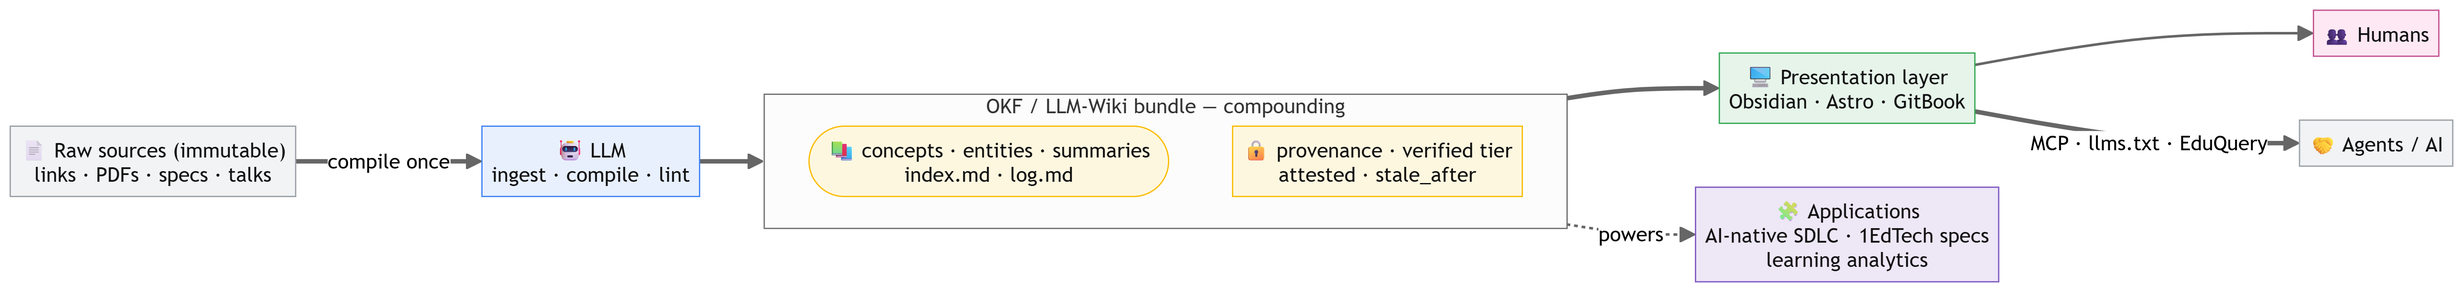
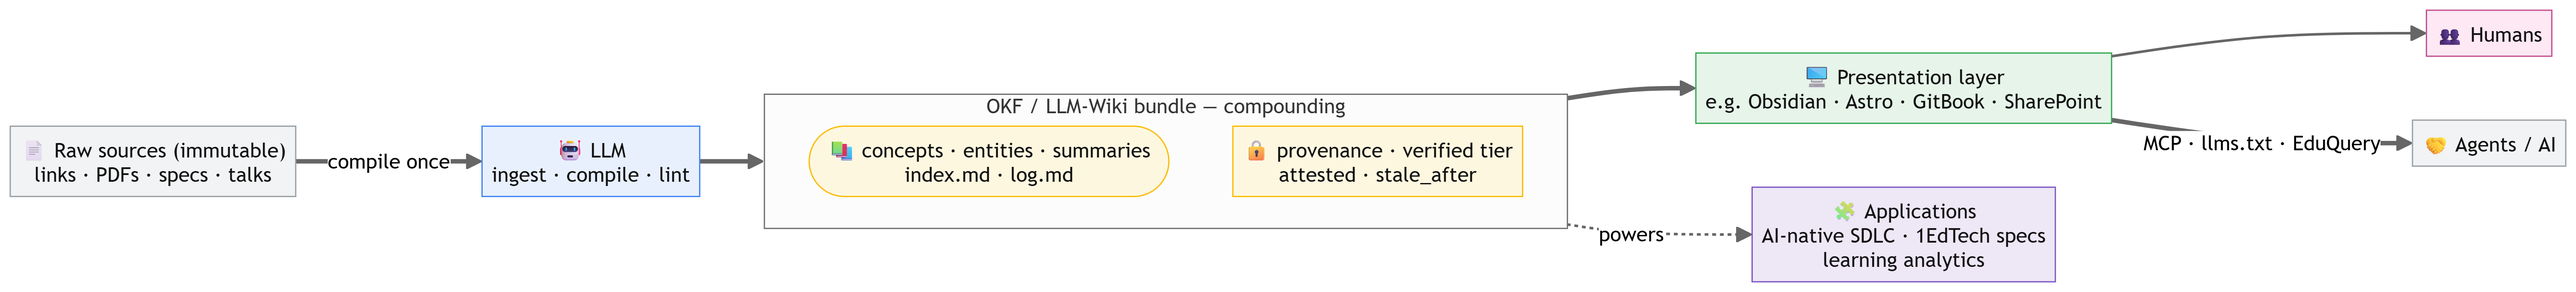
Overview + presentation-layer: SharePoint consistency, "e.g." (non-exhaustive)
- summaries/overview.md — add SharePoint to the "Serving it" line and master
  diagram; prefix presentation-layer enumerations with "e.g."
- concepts/presentation-layer.md — note any Markdown renderer can serve; add a
  greyed "…others" node to the spectrum diagram
- assets/overview.{png,svg}, assets/presentation-layer-spectrum.{png,svg} re-rendered
- log.md updated

diff --git a/concepts/presentation-layer.md b/concepts/presentation-layer.md
@@ -29,6 +29,7 @@ flowchart LR
         AS["🚀 Astro<br/>self-hosted static site<br/>(1EdTech microsites)"]
         GB["📘 GitBook<br/>hosted SaaS · edit + review"]
         SP["🏢 SharePoint<br/>enterprise / M365 · Copilot"]
+        OT["➕ …others<br/>any Markdown renderer"]
     end
 
     HUM["👥 Humans"]
@@ -40,9 +41,10 @@ flowchart LR
 
     classDef bundle fill:#fef7e0,stroke:#fbbc04,color:#111;
     classDef pl fill:#e6f4ea,stroke:#34a853,color:#111;
+    classDef other fill:#eef1f4,stroke:#9aa0a6,color:#555;
     classDef human fill:#fde8f3,stroke:#c2508f,color:#111;
     classDef agent fill:#f1f3f4,stroke:#9aa0a6,color:#111;
-    class KB bundle; class OB,AS,GB,SP pl; class HUM human; class AG agent;
+    class KB bundle; class OB,AS,GB,SP pl; class OT other; class HUM human; class AG agent;
 ```
 
 One bundle, a swappable presentation layer, one audience of humans *and* agents. The
@@ -57,6 +59,9 @@ also allows editing, commits back through git). It should never hold the
 those fields may not round-trip.
 
 ## Concrete options
+These are examples, not an exhaustive list — anything that can render Markdown + YAML
+(a static-site generator, a wiki engine, a docs platform) can serve as the layer.
+
 - **[Obsidian](../entities/obsidian.md)** — a *local* editor/viewer over the vault;
   zero hosting, great for the maintainer, not a public site.
 - **[Astro](../entities/astro.md)** — a *self-built, self-hosted* static site;

diff --git a/summaries/overview.md b/summaries/overview.md
@@ -28,7 +28,7 @@ flowchart LR
         TR["🔒 provenance · verified tier<br/>attested · stale_after"]
     end
 
-    PL["🖥 Presentation layer<br/>Obsidian · Astro · GitBook"]
+    PL["🖥 Presentation layer<br/>e.g. Obsidian · Astro · GitBook · SharePoint"]
     HUM["👥 Humans"]
     AG["🤝 Agents / AI"]
     APP["🧩 Applications<br/>AI-native SDLC · 1EdTech specs<br/>learning analytics"]
@@ -81,7 +81,7 @@ community can tighten OKF into an [OKF profile](../concepts/okf-profile.md).
 
 ## Serving it to humans and agents
 One bundle, a swappable [presentation layer](../concepts/presentation-layer.md)
-(Obsidian / Astro / GitBook) for people, and agent endpoints
+(e.g. Obsidian / Astro / GitBook / SharePoint) for people, and agent endpoints
 ([MCP](../concepts/model-context-protocol.md), `llms.txt`, EduQuery) for machines —
 "one architecture can serve humans and Agents alike."
 
@@ -112,7 +112,7 @@ a **Markdown editor** and an **agent harness + LLM**.
    [OKF](../concepts/open-knowledge-format.md) frontmatter + [trust tiers](../concepts/provenance-and-trust.md),
    run conformance/[attestation](../concepts/attested-computation.md) checks in CI, and
    publish through a [presentation layer](../concepts/presentation-layer.md)
-   (Obsidian / Astro / GitBook / SharePoint).
+   (e.g. Obsidian / Astro / GitBook / SharePoint).
 
 Copy this repo's [`CLAUDE.md`](../CLAUDE.md) as a starting schema.
 

diff --git a/log.md b/log.md
@@ -117,3 +117,11 @@ correct via a new entry. Format defined in [CLAUDE.md](CLAUDE.md) §6.
 - action: expanded entities/sharepoint with an "Implementation sketch"
 - pages: [entities/sharepoint]
 - note: concrete one-way-publish pipeline (git SoT + CI → Graph upsert into a library with content types/site columns mirroring frontmatter; Entra app reg with Sites.Selected; content-approval = verified tier; Copilot/Graph-connector for agents; Power Automate for lint/stale), plus the two-way option with git as tiebreaker. Still generated/unverified. Local only.
+
+## 2026-10-30  ·  maintenance
+- action: made SharePoint consistent across the overview
+- pages: [summaries/overview, assets/overview.png, assets/overview.svg]
+- note: added SharePoint to the "Serving it" line and the master diagram's presentation-layer node (setup step already listed it). Local only.
+- action: made the presentation-layer list explicitly non-exhaustive
+- pages: [summaries/overview, concepts/presentation-layer, assets/overview.png, assets/overview.svg, assets/presentation-layer-spectrum.png, assets/presentation-layer-spectrum.svg]
+- note: prefixed the enumerations with "e.g."; added a note that any Markdown renderer can serve; added a greyed "…others" node to the spectrum diagram and re-rendered both diagrams. Local only.
